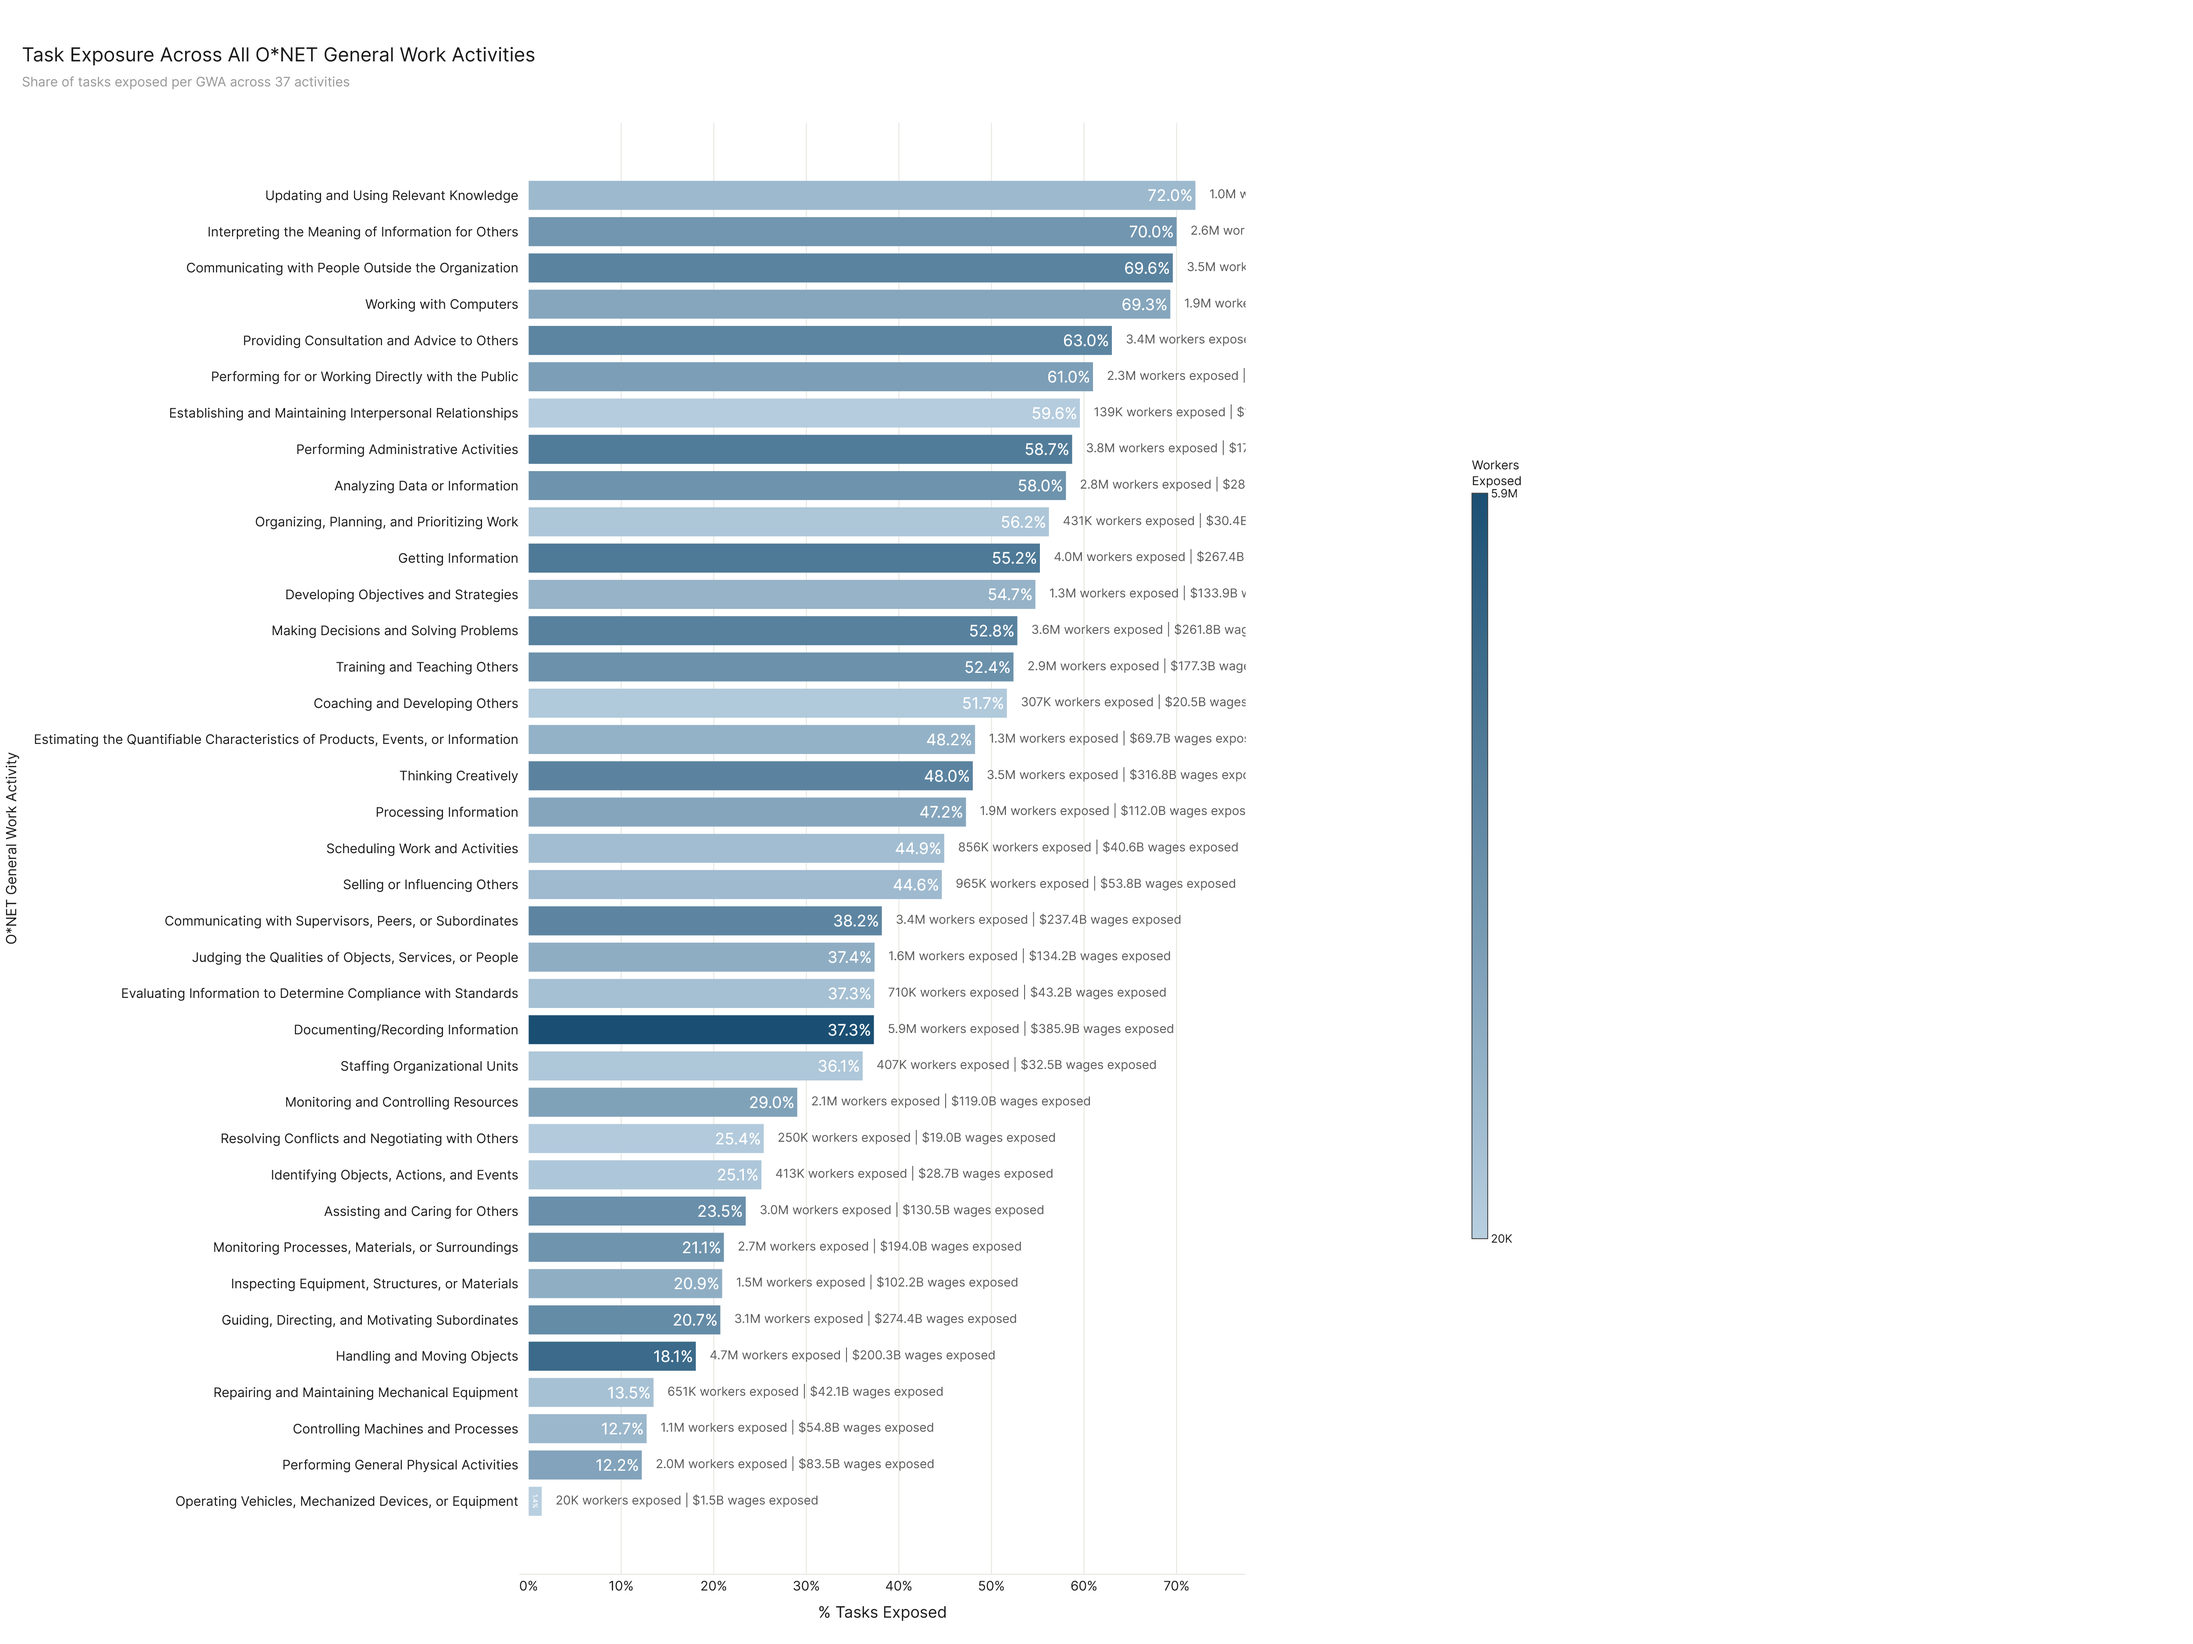
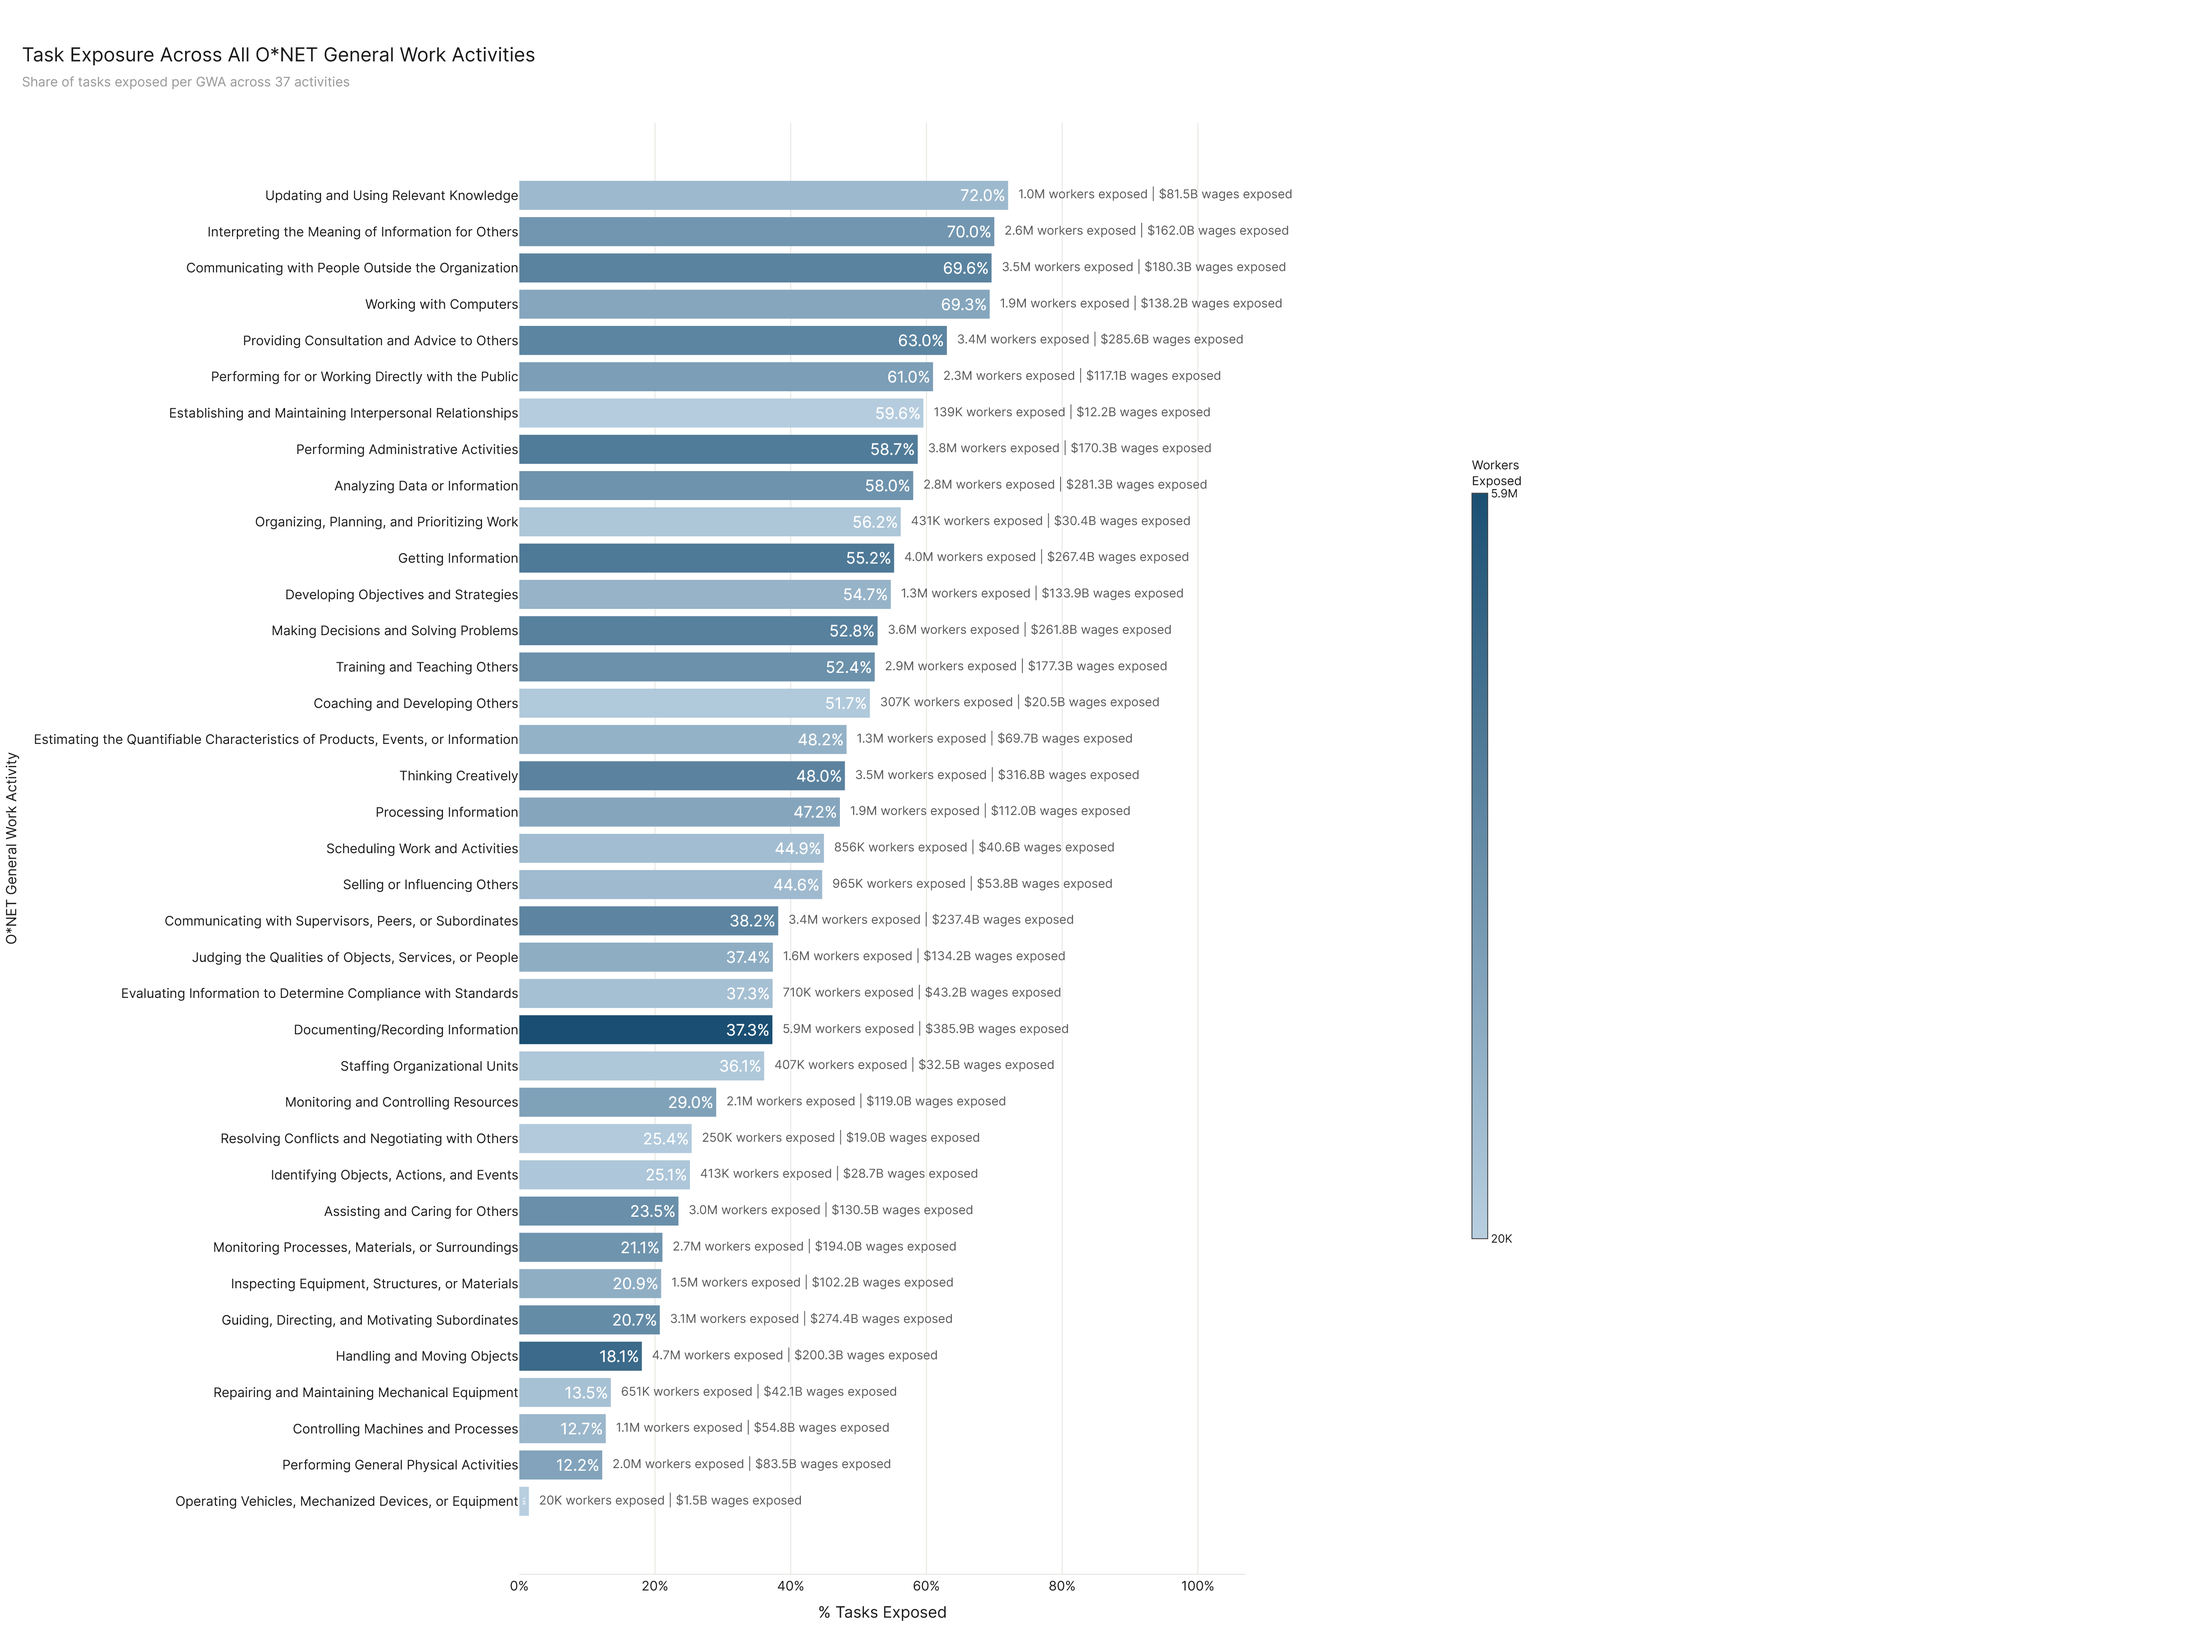
gwa chart: actually fix the label cut-off
The right-side workers/wages annotations were still clipping at the plot
edge despite the wider canvas — the scatter text trace was missing
cliponaxis=False, so plotly cropped them at the axis boundary regardless
of figure width. Set cliponaxis=False on the trace and pad the x-axis
range past max(pct) so the labels render in-axis as belt-and-braces.

Changed region(s): [[0.2184, 0.0936, 0.5928, 0.9365]]

diff --git a/analysis/paper/results/part_2/run.py b/analysis/paper/results/part_2/run.py
@@ -1189,7 +1189,10 @@ def build_gwa_chart(results: Path, figures: Path) -> None:
         hovertemplate="%{y}<br>%{x:.1f}% tasks<extra></extra>",
     ))
 
-    # Workers + wages annotations outside bars
+    # Workers + wages annotations outside bars. cliponaxis=False so the
+    # text isn't clipped at the right plot-area edge — without it, the
+    # labels get cut off no matter how wide the figure is.
+    pct_max = max(pct_vals)
     fig.add_trace(go.Scatter(
         y=categories,
         x=[v + 1.5 for v in pct_vals],
@@ -1199,6 +1202,7 @@ def build_gwa_chart(results: Path, figures: Path) -> None:
         textfont=dict(size=ANNOT_FS + 2, color=PAPER_PALETTE["neutral"], family=FONT_FAMILY),
         showlegend=False,
         hoverinfo="skip",
+        cliponaxis=False,
     ))
 
     height = max(PAPER_H + 500, n_gwas * 42 + 320)
@@ -1212,12 +1216,16 @@ def build_gwa_chart(results: Path, figures: Path) -> None:
         margin=dict(l=20, r=1080, t=140, b=80),
     )
 
+    # Pad the x-axis so the right-side annotation block sits comfortably
+    # in-axis (belt + braces with cliponaxis=False above) and the longest
+    # label has 25–30% headroom past the bar tip.
     fig.update_xaxes(
         title=dict(text="% Tasks Exposed", font=dict(size=LABEL_FS + 2)),
         showgrid=True, gridcolor=PAPER_PALETTE["grid"],
         showline=True, linecolor=PAPER_PALETTE["grid"],
         ticksuffix="%",
         tickfont=dict(size=TICK_FS, family=FONT_FAMILY),
+        range=[0, pct_max + 35],
     )
     fig.update_yaxes(
         title=dict(text="O*NET General Work Activity", font=dict(size=LABEL_FS)),
